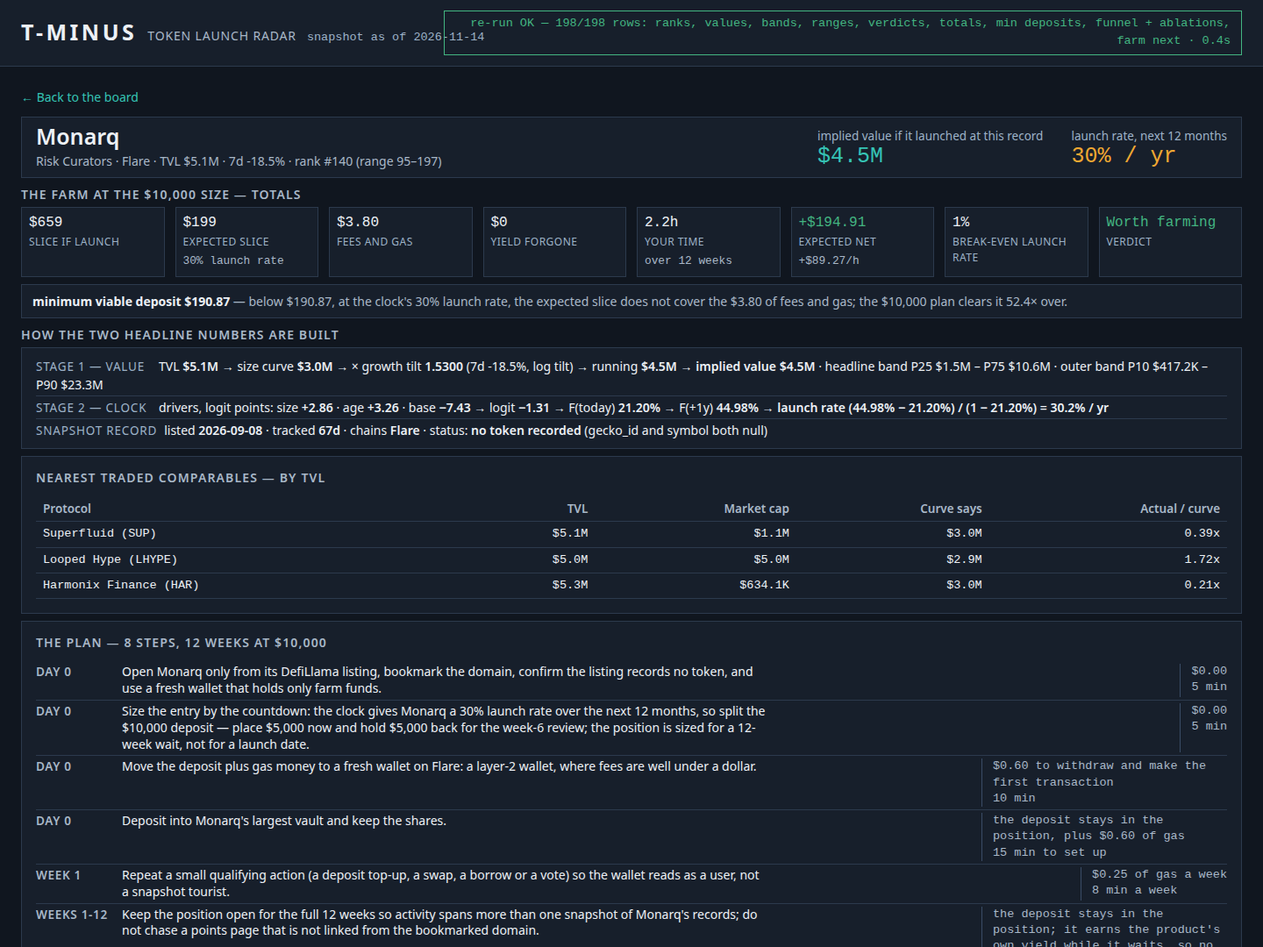
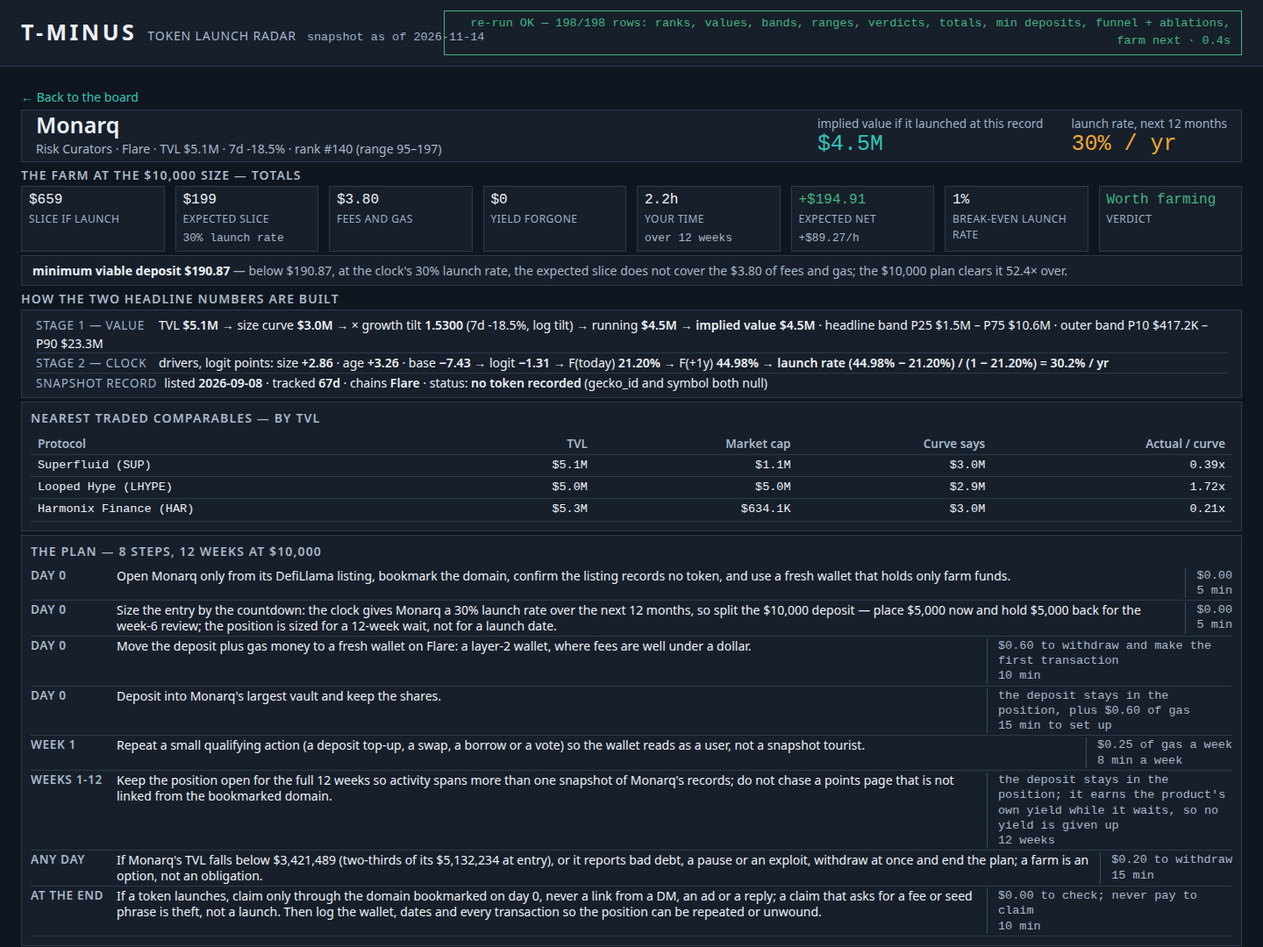
Detail-recovery round: all 8 plan steps back in the detail frame (step 8 ends y1068/1080) via CSS compression only — wider step measure, tighter panels/comparables/build-up — plus the time-split x2.49 second-sourced in the Stage-1 LOO tile and covered by verify(); board.json/data.js md5-locked to 89

Changed region(s): [[0.0, 0.1222, 0.9688, 1.0], [0.9062, 0.4583, 1.0, 0.6722]]

diff --git a/dashboard/app.css b/dashboard/app.css
@@ -1,1 +1,1 @@
-:root{--bg:#10161F;--panel:#171F2B;--panel2:#1E2938;--line:#2C3A4D;--line2:#3A4C66;--ink:#EDF1F6;--ink2:#A9B8C8;--ink3:#9DB2C7;--amber:#F0A832;--teal:#35C4B5;--go:#43B581;--warn:#E8B33D;--skip:#E86A54;--s1:4px;--s2:8px;--s3:12px;--s4:16px;--s5:24px;--s6:32px;--fs-xs:13.5px;--fs-s:14px;--fs-m:16px;--fs-l:20px;--fs-xl:25px;--sans:"Avenir Next","Segoe UI",system-ui,-apple-system,"Helvetica Neue",Arial,sans-serif;--mono:ui-monospace,"SF Mono","Cascadia Mono",Menlo,Consolas,"Liberation Mono",monospace;}*{box-sizing:border-box}html,body{margin:0;padding:0}body{background:var(--bg);color:var(--ink);font-family:var(--sans);font-size:var(--fs-s);line-height:1.5}h1,h2,h3{font-weight:600;line-height:1.2;margin:0}a{color:var(--teal);text-decoration:none}a:hover{text-decoration:underline}button{font-family:inherit;cursor:pointer}.board td:not(.left),.abl td,.stats,table.data td{font-family:var(--mono);font-variant-numeric:tabular-nums}:focus-visible{outline:2px solid var(--teal);outline-offset:1px}.topbar{display:flex;justify-content:space-between;align-items:center;gap:var(--s4);padding:var(--s3) var(--s5);border-bottom:1px solid var(--line);background:var(--panel)}.brand{display:flex;align-items:baseline;gap:var(--s3);min-width:0}.brand-mark{font-size:var(--fs-xl);font-weight:700;letter-spacing:.14em;color:var(--ink);white-space:nowrap}.brand-sub{color:var(--ink2);font-size:var(--fs-s);letter-spacing:.06em;text-transform:uppercase;white-space:nowrap}.asof{color:var(--ink3);font-size:var(--fs-xs);font-family:var(--mono);white-space:nowrap}.top-meta{display:flex;align-items:center;gap:var(--s4);color:var(--ink2);font-size:var(--fs-xs)}.chip{border:1px solid var(--line2);padding:var(--s1) var(--s3);font-family:var(--mono);font-size:var(--fs-xs);text-align:right}.chip-pending{color:var(--warn);border-color:var(--warn)}.chip-ok{color:var(--go);border-color:var(--go)}.chip-bad{color:var(--skip);border-color:var(--skip)}main{padding:var(--s5);max-width:1560px;margin:0 auto}.boot,.fatal{border:1px solid var(--line);background:var(--panel);padding:var(--s6);color:var(--ink2)}.fatal{color:var(--skip);border-color:var(--skip)}.hero{display:grid;grid-template-columns:1fr 1fr;gap:var(--s4);margin-bottom:var(--s4)}.panel{background:var(--panel);border:1px solid var(--line);padding:var(--s4)}.panel h2{font-size:var(--fs-s);text-transform:uppercase;letter-spacing:.08em;color:var(--ink2);margin-bottom:var(--s3)}.panel canvas{width:100%;display:block}.stats{color:var(--ink2);font-size:var(--fs-xs);margin:var(--s3) 0 0}.stats b{color:var(--ink);font-weight:600}.abl{width:100%;border-collapse:collapse;font-size:var(--fs-xs)}.abl td,.abl th{padding:2px var(--s2);border-bottom:1px solid var(--line);text-align:right}.abl td:first-child,.abl th:first-child{text-align:left;font-family:var(--sans)}.evidenceband .abl td:first-child{white-space:nowrap}#ablTable tr.adopted td{color:var(--teal);font-weight:600}#ablTable tr.adopted td:first-child::after{content:" — adopted";color:var(--teal)}#abl2Table tr.adopted td{color:var(--amber);font-weight:600}#abl2Table tr.adopted td:first-child::after{content:" — adopted";color:var(--amber)}.statstrip{display:grid;grid-template-columns:repeat(7,1fr);gap:var(--s3);margin-bottom:var(--s3)}.stat{border:1px solid var(--line);background:var(--panel);padding:var(--s2) var(--s3)}.stat .v{font-family:var(--mono);font-size:var(--fs-l);line-height:1.15;white-space:nowrap}.stat .v.teal{color:var(--teal)}.stat .v.amber{color:var(--amber)}.stat .cap{color:var(--ink3);font-size:12px;text-transform:uppercase;letter-spacing:.04em;margin-top:var(--s1)}.stat .sub{color:var(--ink2);font-size:12.8px;font-family:var(--mono);margin-top:var(--s1);line-height:1.35}.funnelbar{border:1px solid var(--line);background:var(--panel);padding:var(--s2) var(--s3);margin-bottom:var(--s3)}.fb-segs{display:flex;height:16px;border:1px solid var(--line2)}.fb-segs span{display:block;height:100%}.fb-segs .seg-traded{background:var(--ink3)}.fb-segs .seg-aside{background:var(--panel2)}.fb-segs .seg-ranked{background:var(--teal)}.fb-line{margin:var(--s1) 0 0;font-family:var(--mono);font-size:var(--fs-xs);color:var(--ink2);line-height:1.4}.fb-line b{color:var(--ink);font-weight:600}.fb-reasons{color:var(--ink3)}.mindep{border:1px solid var(--line);background:var(--panel);padding:var(--s2) var(--s3);font-size:var(--fs-s);color:var(--ink2);margin-bottom:var(--s2)}.mindep b{color:var(--ink)}.evidenceband{display:grid;grid-template-columns:1.5fr 1fr;gap:var(--s4);margin:var(--s3) 0}.evidenceband .panel{padding:var(--s2) var(--s4)}.evidenceband .panel h2{margin-bottom:var(--s2)}.evidenceband .abl td,.evidenceband .abl th{padding:1px var(--s2);line-height:1.3}.evidenceband .abl th{white-space:nowrap}.evidenceband .stats{margin-top:var(--s2);line-height:1.4}.subh{font-size:var(--fs-xs);text-transform:uppercase;letter-spacing:.06em;color:var(--ink3);margin:var(--s2) 0 var(--s1);font-weight:600}.subh:first-of-type{margin-top:0}.crit{list-style:none;margin:0;padding:0;color:var(--ink2);font-size:var(--fs-xs)}.crit li{padding:2px 0;border-bottom:1px solid var(--line);line-height:1.4}.crit li:last-child{border-bottom:none;padding-bottom:0}.crit b{color:var(--ink);font-weight:600}.compactstrip{border:1px solid var(--line);background:var(--panel);padding:var(--s2) var(--s3);font-family:var(--mono);font-size:var(--fs-xs);color:var(--ink2);margin-bottom:var(--s3)}.compactstrip b{color:var(--ink)}#view-board.filtered .statstrip,#view-board.filtered .evidenceband,#view-board.filtered .funnelbar{display:none}.boardnote{border:1px solid var(--line);background:var(--panel);padding:var(--s2) var(--s3);font-size:var(--fs-xs);color:var(--ink2);margin-bottom:var(--s3);line-height:1.45}.boardnote b{color:var(--ink)}.totals-h{font-size:var(--fs-s);text-transform:uppercase;letter-spacing:.08em;color:var(--ink2);font-weight:600;margin-bottom:var(--s1)}.totals{display:grid;grid-template-columns:repeat(8,1fr);gap:var(--s3);margin-bottom:var(--s2)}.totals .stat{padding:var(--s2)}.totals .v{font-size:var(--fs-m)}.totals .v.go{color:var(--go)}.totals .v.skip{color:var(--skip)}.totals .v.warn{color:var(--warn)}.buildup{border:1px solid var(--line);background:var(--panel);padding:var(--s2) var(--s4);margin-bottom:var(--s2);font-size:var(--fs-s)}.buildup .bu-row{padding:2px 0;border-bottom:1px solid var(--line)}.buildup .bu-row:last-child{border-bottom:none}.buildup .bu-cap{display:inline-block;min-width:132px;margin-right:var(--s2);color:var(--ink3);font-size:var(--fs-xs);text-transform:uppercase;letter-spacing:.06em}.buildup b{color:var(--ink);font-weight:600}.toolbar{display:flex;flex-wrap:wrap;gap:var(--s3);align-items:center;margin-bottom:var(--s3)}.toolbar input[type=search]{background:var(--panel);border:1px solid var(--line);color:var(--ink);padding:var(--s2) var(--s3);font-size:var(--fs-s);min-width:200px}.toolbar select{background:var(--panel);border:1px solid var(--line);color:var(--ink);padding:var(--s2);font-size:var(--fs-s)}.chips{display:flex;gap:var(--s1)}.chips button{background:var(--panel);border:1px solid var(--line);color:var(--ink2);padding:var(--s1) var(--s3);font-size:var(--fs-xs)}.chips button[aria-pressed=true]{color:var(--ink);background:var(--panel2);border-color:var(--line2);font-weight:600}.chips button.v-go[aria-pressed=true]{background:var(--go);border-color:var(--go);color:var(--bg)}.chips button.v-warn[aria-pressed=true]{background:var(--warn);border-color:var(--warn);color:var(--bg)}.chips button.v-skip[aria-pressed=true]{background:var(--skip);border-color:var(--skip);color:var(--bg)}.farmbook{border:1px solid var(--line2);background:var(--panel2);padding:var(--s3) var(--s4);margin-bottom:var(--s3);font-size:var(--fs-s)}#view-board.filtered .tablewrap{max-height:620px;overflow-y:auto}.farmbook b{color:var(--ink)}.farmbook .fb-grid{display:flex;flex-wrap:wrap;gap:var(--s5);font-family:var(--mono);font-size:var(--fs-xs);color:var(--ink2);margin-top:var(--s2)}.farmbook .fb-grid b{display:block;font-size:var(--fs-m);color:var(--ink)}.tablewrap{border:1px solid var(--line);background:var(--panel);overflow-x:auto}table.board{width:100%;border-collapse:collapse;font-size:14.5px}.board th{position:sticky;top:0;background:var(--panel2);color:var(--ink2);text-align:right;font-weight:600;padding:var(--s2);border-bottom:1px solid var(--line2);white-space:nowrap;cursor:pointer}.board th.left,.board td.left{text-align:left}.board td{padding:4px 7px;border-bottom:1px solid var(--line);text-align:right;white-space:nowrap;vertical-align:middle;line-height:1.3}.board tbody tr{cursor:pointer}.board tbody tr:hover{background:var(--panel2)}.board .pname{font-size:var(--fs-s);color:var(--ink);font-weight:600}.board a.pname{text-decoration:none}.board a.pname:hover{color:var(--teal);text-decoration:none}.board .psub{font-family:var(--sans);color:var(--ink3);font-size:var(--fs-xs)}.rank1 td{background:#14201D}.hzbar{display:inline-block;width:44px;height:8px;background:var(--panel2);border:1px solid var(--line);vertical-align:middle;margin-right:var(--s2)}.hzbar i{display:block;height:100%;background:var(--amber)}.bandline{font-family:var(--mono);font-variant-numeric:tabular-nums;white-space:nowrap}.bandbar{display:block;position:relative;width:132px;height:8px;background:var(--panel2);border:1px solid var(--line);margin-top:3px;margin-left:auto}.bandbar .seg{position:absolute;top:1px;height:4px;background:var(--teal)}.bandbar .m{position:absolute;top:0;width:2px;height:6px;background:var(--ink)}.verdict{display:inline-block;border:1px solid;padding:1px var(--s2);font-family:var(--sans);font-size:var(--fs-xs);font-weight:600}.verdict.go{color:var(--go);border-color:var(--go)}.verdict.warn{color:var(--warn);border-color:var(--warn)}.verdict.skip{color:var(--skip);border-color:var(--skip)}.pos{color:var(--go)}.neg{color:var(--skip)}.empty{padding:var(--s6);text-align:center;color:var(--ink2)}.empty button{background:none;border:1px solid var(--line2);color:var(--ink2);padding:var(--s1) var(--s3);margin-left:var(--s2)}.method{margin-top:var(--s4)}.method-grid{display:grid;grid-template-columns:repeat(3,1fr);gap:var(--s5);color:var(--ink2);font-size:var(--fs-s)}.method-grid h3{color:var(--ink);font-size:var(--fs-s);margin-bottom:var(--s2)}.method-grid p{margin:0 0 var(--s2)}.backlink{display:inline-block;margin-bottom:var(--s3);font-size:var(--fs-s)}.d-head{display:flex;flex-wrap:wrap;gap:var(--s5);align-items:flex-end;border:1px solid var(--line);background:var(--panel);padding:var(--s2) var(--s4);margin-bottom:var(--s2)}.d-head h1{font-size:var(--fs-xl);line-height:1.1}.d-head .sub{color:var(--ink2);margin-top:var(--s1)}.d-big{font-family:var(--mono);display:flex;gap:var(--s6);margin-left:auto}.d-big .v{font-size:var(--fs-xl);color:var(--teal);line-height:1.15}.d-big .h{font-size:var(--fs-xl);color:var(--amber);line-height:1.15}.d-big .cap{color:var(--ink3);font-size:var(--fs-xs);font-family:var(--sans)}.d-grid{display:grid;grid-template-columns:1fr 1fr;gap:var(--s4)}.factors{display:flex;align-items:stretch;gap:var(--s2);flex-wrap:wrap}.factor{border:1px solid var(--line);background:var(--panel2);padding:var(--s3);min-width:128px}.factor .cap{color:var(--ink3);font-size:var(--fs-xs);text-transform:uppercase;letter-spacing:.06em}.factor .val{font-family:var(--mono);font-size:var(--fs-l);margin-top:var(--s1)}.factor-arrow{align-self:center;color:var(--ink3);font-size:var(--fs-l)}table.data{width:100%;border-collapse:collapse;font-size:var(--fs-xs)}table.data th,table.data td{padding:var(--s1) var(--s2);border-bottom:1px solid var(--line);text-align:right}table.data th{color:var(--ink2);font-weight:600}table.data td:first-child,table.data th:first-child{text-align:left}.steps{list-style:none;margin:0;padding:0}.plan-panel{margin-bottom:var(--s4)}.plan-panel .steps li{padding:3px 0;line-height:1.35}.steps li{display:grid;grid-template-columns:86px 1fr auto;gap:var(--s3);padding:var(--s3) 0;border-bottom:1px solid var(--line);line-height:1.42}.steps .when{color:var(--ink2);font-weight:600;font-size:var(--fs-xs);text-transform:uppercase;letter-spacing:.05em}.steps .txt{color:var(--ink);max-width:92ch}.steps .ct{font-family:var(--mono);font-size:var(--fs-xs);color:var(--ink2);text-align:left;max-width:280px;border-left:1px solid var(--line2);padding-left:var(--s3)}.clockread{display:flex;gap:var(--s5);flex-wrap:wrap}.clockread .cr .val{font-family:var(--mono);font-size:var(--fs-xl);color:var(--amber)}.clockread .cr .cap{color:var(--ink3);font-size:var(--fs-xs);text-transform:uppercase;letter-spacing:.06em}.listhead{display:flex;justify-content:space-between;align-items:baseline;margin-bottom:var(--s3)}.listhead h1{font-size:var(--fs-xl)}.foot{padding:var(--s4) var(--s5);color:var(--ink3);font-size:var(--fs-xs);border-top:1px solid var(--line);margin-top:var(--s5)}@media (max-width:1100px){.hero{grid-template-columns:1fr}.d-grid{grid-template-columns:1fr}.method-grid{grid-template-columns:1fr}.statstrip{grid-template-columns:repeat(2,1fr)}.totals{grid-template-columns:repeat(4,1fr)}.evidenceband{grid-template-columns:1fr}}
+:root{--bg:#10161F;--panel:#171F2B;--panel2:#1E2938;--line:#2C3A4D;--line2:#3A4C66;--ink:#EDF1F6;--ink2:#A9B8C8;--ink3:#9DB2C7;--amber:#F0A832;--teal:#35C4B5;--go:#43B581;--warn:#E8B33D;--skip:#E86A54;--s1:4px;--s2:8px;--s3:12px;--s4:16px;--s5:24px;--s6:32px;--fs-xs:13.5px;--fs-s:14px;--fs-m:16px;--fs-l:20px;--fs-xl:25px;--sans:"Avenir Next","Segoe UI",system-ui,-apple-system,"Helvetica Neue",Arial,sans-serif;--mono:ui-monospace,"SF Mono","Cascadia Mono",Menlo,Consolas,"Liberation Mono",monospace;}*{box-sizing:border-box}html,body{margin:0;padding:0}body{background:var(--bg);color:var(--ink);font-family:var(--sans);font-size:var(--fs-s);line-height:1.5}h1,h2,h3{font-weight:600;line-height:1.2;margin:0}a{color:var(--teal);text-decoration:none}a:hover{text-decoration:underline}button{font-family:inherit;cursor:pointer}.board td:not(.left),.abl td,.stats,table.data td{font-family:var(--mono);font-variant-numeric:tabular-nums}:focus-visible{outline:2px solid var(--teal);outline-offset:1px}.topbar{display:flex;justify-content:space-between;align-items:center;gap:var(--s4);padding:var(--s3) var(--s5);border-bottom:1px solid var(--line);background:var(--panel)}.brand{display:flex;align-items:baseline;gap:var(--s3);min-width:0}.brand-mark{font-size:var(--fs-xl);font-weight:700;letter-spacing:.14em;color:var(--ink);white-space:nowrap}.brand-sub{color:var(--ink2);font-size:var(--fs-s);letter-spacing:.06em;text-transform:uppercase;white-space:nowrap}.asof{color:var(--ink3);font-size:var(--fs-xs);font-family:var(--mono);white-space:nowrap}.top-meta{display:flex;align-items:center;gap:var(--s4);color:var(--ink2);font-size:var(--fs-xs)}.chip{border:1px solid var(--line2);padding:var(--s1) var(--s3);font-family:var(--mono);font-size:var(--fs-xs);text-align:right}.chip-pending{color:var(--warn);border-color:var(--warn)}.chip-ok{color:var(--go);border-color:var(--go)}.chip-bad{color:var(--skip);border-color:var(--skip)}main{padding:var(--s5);max-width:1560px;margin:0 auto}.boot,.fatal{border:1px solid var(--line);background:var(--panel);padding:var(--s6);color:var(--ink2)}.fatal{color:var(--skip);border-color:var(--skip)}.hero{display:grid;grid-template-columns:1fr 1fr;gap:var(--s4);margin-bottom:var(--s4)}.panel{background:var(--panel);border:1px solid var(--line);padding:10px}.panel h2{font-size:var(--fs-s);text-transform:uppercase;letter-spacing:.08em;color:var(--ink2);margin-bottom:8px}.panel canvas{width:100%;display:block}.stats{color:var(--ink2);font-size:var(--fs-xs);margin:var(--s3) 0 0}.stats b{color:var(--ink);font-weight:600}.abl{width:100%;border-collapse:collapse;font-size:var(--fs-xs)}.abl td,.abl th{padding:2px var(--s2);border-bottom:1px solid var(--line);text-align:right}.abl td:first-child,.abl th:first-child{text-align:left;font-family:var(--sans)}.evidenceband .abl td:first-child{white-space:nowrap}#ablTable tr.adopted td{color:var(--teal);font-weight:600}#ablTable tr.adopted td:first-child::after{content:" — adopted";color:var(--teal)}#abl2Table tr.adopted td{color:var(--amber);font-weight:600}#abl2Table tr.adopted td:first-child::after{content:" — adopted";color:var(--amber)}.statstrip{display:grid;grid-template-columns:repeat(7,1fr);gap:var(--s3);margin-bottom:var(--s3)}.stat{border:1px solid var(--line);background:var(--panel);padding:6px var(--s3)}.stat .v{font-family:var(--mono);font-size:var(--fs-l);line-height:1.15;white-space:nowrap}.stat .v.teal{color:var(--teal)}.stat .v.amber{color:var(--amber)}.stat .cap{color:var(--ink3);font-size:12px;text-transform:uppercase;letter-spacing:.04em;margin-top:var(--s1)}.stat .sub{color:var(--ink2);font-size:12.8px;font-family:var(--mono);margin-top:var(--s1);line-height:1.35}.funnelbar{border:1px solid var(--line);background:var(--panel);padding:var(--s2) var(--s3);margin-bottom:var(--s3)}.fb-segs{display:flex;height:16px;border:1px solid var(--line2)}.fb-segs span{display:block;height:100%}.fb-segs .seg-traded{background:var(--ink3)}.fb-segs .seg-aside{background:var(--panel2)}.fb-segs .seg-ranked{background:var(--teal)}.fb-line{margin:var(--s1) 0 0;font-family:var(--mono);font-size:var(--fs-xs);color:var(--ink2);line-height:1.4}.fb-line b{color:var(--ink);font-weight:600}.fb-reasons{color:var(--ink3)}.mindep{border:1px solid var(--line);background:var(--panel);padding:6px var(--s3);font-size:var(--fs-s);color:var(--ink2);margin-bottom:4px}.mindep b{color:var(--ink)}.evidenceband{display:grid;grid-template-columns:1.5fr 1fr;gap:var(--s4);margin:var(--s3) 0}.evidenceband .panel{padding:var(--s2) var(--s4)}.evidenceband .panel h2{margin-bottom:var(--s2)}.evidenceband .abl td,.evidenceband .abl th{padding:1px var(--s2);line-height:1.3}.evidenceband .abl th{white-space:nowrap}.evidenceband .stats{margin-top:var(--s2);line-height:1.4}.subh{font-size:var(--fs-xs);text-transform:uppercase;letter-spacing:.06em;color:var(--ink3);margin:var(--s2) 0 var(--s1);font-weight:600}.subh:first-of-type{margin-top:0}.crit{list-style:none;margin:0;padding:0;color:var(--ink2);font-size:var(--fs-xs)}.crit li{padding:2px 0;border-bottom:1px solid var(--line);line-height:1.4}.crit li:last-child{border-bottom:none;padding-bottom:0}.crit b{color:var(--ink);font-weight:600}.compactstrip{border:1px solid var(--line);background:var(--panel);padding:var(--s2) var(--s3);font-family:var(--mono);font-size:var(--fs-xs);color:var(--ink2);margin-bottom:var(--s3)}.compactstrip b{color:var(--ink)}#view-board.filtered .statstrip,#view-board.filtered .evidenceband,#view-board.filtered .funnelbar{display:none}.boardnote{border:1px solid var(--line);background:var(--panel);padding:var(--s2) var(--s3);font-size:var(--fs-xs);color:var(--ink2);margin-bottom:var(--s3);line-height:1.45}.boardnote b{color:var(--ink)}.totals-h{font-size:var(--fs-s);text-transform:uppercase;letter-spacing:.08em;color:var(--ink2);font-weight:600;margin-bottom:2px}.totals{display:grid;grid-template-columns:repeat(8,1fr);gap:var(--s3);margin-bottom:4px}.totals .stat{padding:6px var(--s2)}.totals .v{font-size:var(--fs-m)}.totals .v.go{color:var(--go)}.totals .v.skip{color:var(--skip)}.totals .v.warn{color:var(--warn)}.buildup{border:1px solid var(--line);background:var(--panel);padding:6px var(--s4);margin-bottom:4px;font-size:var(--fs-s)}.buildup .bu-row{padding:0;border-bottom:1px solid var(--line)}.buildup .bu-row:last-child{border-bottom:none}.buildup .bu-cap{display:inline-block;min-width:132px;margin-right:var(--s2);color:var(--ink3);font-size:var(--fs-xs);text-transform:uppercase;letter-spacing:.06em}.buildup b{color:var(--ink);font-weight:600}.toolbar{display:flex;flex-wrap:wrap;gap:var(--s3);align-items:center;margin-bottom:var(--s3)}.toolbar input[type=search]{background:var(--panel);border:1px solid var(--line);color:var(--ink);padding:var(--s2) var(--s3);font-size:var(--fs-s);min-width:200px}.toolbar select{background:var(--panel);border:1px solid var(--line);color:var(--ink);padding:var(--s2);font-size:var(--fs-s)}.chips{display:flex;gap:var(--s1)}.chips button{background:var(--panel);border:1px solid var(--line);color:var(--ink2);padding:var(--s1) var(--s3);font-size:var(--fs-xs)}.chips button[aria-pressed=true]{color:var(--ink);background:var(--panel2);border-color:var(--line2);font-weight:600}.chips button.v-go[aria-pressed=true]{background:var(--go);border-color:var(--go);color:var(--bg)}.chips button.v-warn[aria-pressed=true]{background:var(--warn);border-color:var(--warn);color:var(--bg)}.chips button.v-skip[aria-pressed=true]{background:var(--skip);border-color:var(--skip);color:var(--bg)}.farmbook{border:1px solid var(--line2);background:var(--panel2);padding:var(--s3) var(--s4);margin-bottom:var(--s3);font-size:var(--fs-s)}#view-board.filtered .tablewrap{max-height:620px;overflow-y:auto}.farmbook b{color:var(--ink)}.farmbook .fb-grid{display:flex;flex-wrap:wrap;gap:var(--s5);font-family:var(--mono);font-size:var(--fs-xs);color:var(--ink2);margin-top:var(--s2)}.farmbook .fb-grid b{display:block;font-size:var(--fs-m);color:var(--ink)}.tablewrap{border:1px solid var(--line);background:var(--panel);overflow-x:auto}table.board{width:100%;border-collapse:collapse;font-size:14.5px}.board th{position:sticky;top:0;background:var(--panel2);color:var(--ink2);text-align:right;font-weight:600;padding:var(--s2);border-bottom:1px solid var(--line2);white-space:nowrap;cursor:pointer}.board th.left,.board td.left{text-align:left}.board td{padding:4px 7px;border-bottom:1px solid var(--line);text-align:right;white-space:nowrap;vertical-align:middle;line-height:1.3}.board tbody tr{cursor:pointer}.board tbody tr:hover{background:var(--panel2)}.board .pname{font-size:var(--fs-s);color:var(--ink);font-weight:600}.board a.pname{text-decoration:none}.board a.pname:hover{color:var(--teal);text-decoration:none}.board .psub{font-family:var(--sans);color:var(--ink3);font-size:var(--fs-xs)}.rank1 td{background:#14201D}.hzbar{display:inline-block;width:44px;height:8px;background:var(--panel2);border:1px solid var(--line);vertical-align:middle;margin-right:var(--s2)}.hzbar i{display:block;height:100%;background:var(--amber)}.bandline{font-family:var(--mono);font-variant-numeric:tabular-nums;white-space:nowrap}.bandbar{display:block;position:relative;width:132px;height:8px;background:var(--panel2);border:1px solid var(--line);margin-top:3px;margin-left:auto}.bandbar .seg{position:absolute;top:1px;height:4px;background:var(--teal)}.bandbar .m{position:absolute;top:0;width:2px;height:6px;background:var(--ink)}.verdict{display:inline-block;border:1px solid;padding:1px var(--s2);font-family:var(--sans);font-size:var(--fs-xs);font-weight:600}.verdict.go{color:var(--go);border-color:var(--go)}.verdict.warn{color:var(--warn);border-color:var(--warn)}.verdict.skip{color:var(--skip);border-color:var(--skip)}.pos{color:var(--go)}.neg{color:var(--skip)}.empty{padding:var(--s6);text-align:center;color:var(--ink2)}.empty button{background:none;border:1px solid var(--line2);color:var(--ink2);padding:var(--s1) var(--s3);margin-left:var(--s2)}.method{margin-top:var(--s4)}.method-grid{display:grid;grid-template-columns:repeat(3,1fr);gap:var(--s5);color:var(--ink2);font-size:var(--fs-s)}.method-grid h3{color:var(--ink);font-size:var(--fs-s);margin-bottom:var(--s2)}.method-grid p{margin:0 0 var(--s2)}.backlink{display:inline-block;margin-bottom:4px;font-size:var(--fs-s)}.d-head{display:flex;flex-wrap:wrap;gap:var(--s5);align-items:flex-end;border:1px solid var(--line);background:var(--panel);padding:4px var(--s4);margin-bottom:4px}.d-head h1{font-size:var(--fs-xl);line-height:1.0}.d-head .sub{color:var(--ink2);margin-top:var(--s1)}.d-big{font-family:var(--mono);display:flex;gap:var(--s6);margin-left:auto}.d-big .v{font-size:var(--fs-xl);color:var(--teal);line-height:1.15}.d-big .h{font-size:var(--fs-xl);color:var(--amber);line-height:1.15}.d-big .cap{color:var(--ink3);font-size:var(--fs-xs);font-family:var(--sans)}.d-grid{display:grid;grid-template-columns:1fr 1fr;gap:var(--s4)}.factors{display:flex;align-items:stretch;gap:var(--s2);flex-wrap:wrap}.factor{border:1px solid var(--line);background:var(--panel2);padding:var(--s3);min-width:128px}.factor .cap{color:var(--ink3);font-size:var(--fs-xs);text-transform:uppercase;letter-spacing:.06em}.factor .val{font-family:var(--mono);font-size:var(--fs-l);margin-top:var(--s1)}.factor-arrow{align-self:center;color:var(--ink3);font-size:var(--fs-l)}table.data{width:100%;border-collapse:collapse;font-size:var(--fs-xs)}table.data th,table.data td{padding:2px var(--s2);border-bottom:1px solid var(--line);text-align:right}table.data th{color:var(--ink2);font-weight:600}table.data td:first-child,table.data th:first-child{text-align:left}.steps{list-style:none;margin:0;padding:0}.plan-panel{margin-bottom:var(--s4)}.plan-panel .steps li{padding:2px 0;line-height:1.28}.steps li{display:grid;grid-template-columns:86px 1fr auto;gap:var(--s3);padding:var(--s3) 0;border-bottom:1px solid var(--line);line-height:1.42}.steps .when{color:var(--ink2);font-weight:600;font-size:var(--fs-xs);text-transform:uppercase;letter-spacing:.05em}.steps .txt{color:var(--ink)}.steps .ct{font-family:var(--mono);font-size:var(--fs-xs);color:var(--ink2);text-align:left;max-width:280px;border-left:1px solid var(--line2);padding-left:var(--s3)}.clockread{display:flex;gap:var(--s5);flex-wrap:wrap}.clockread .cr .val{font-family:var(--mono);font-size:var(--fs-xl);color:var(--amber)}.clockread .cr .cap{color:var(--ink3);font-size:var(--fs-xs);text-transform:uppercase;letter-spacing:.06em}.listhead{display:flex;justify-content:space-between;align-items:baseline;margin-bottom:var(--s3)}.listhead h1{font-size:var(--fs-xl)}.foot{padding:var(--s4) var(--s5);color:var(--ink3);font-size:var(--fs-xs);border-top:1px solid var(--line);margin-top:var(--s5)}@media (max-width:1100px){.hero{grid-template-columns:1fr}.d-grid{grid-template-columns:1fr}.method-grid{grid-template-columns:1fr}.statstrip{grid-template-columns:repeat(2,1fr)}.totals{grid-template-columns:repeat(4,1fr)}.evidenceband{grid-template-columns:1fr}}

diff --git a/dashboard/app.js b/dashboard/app.js
@@ -102,11 +102,12 @@ let EV = null;
 function renderEvidence() {
 const ev = EV, c = T.counts, v = T.validation, ck = T.clock;
 const stat = (val, cap, sub, cls = '') => `<div class="stat"><div class="v ${cls}">${val}</div><div class="cap">${cap}</div><div class="sub">${sub}</div></div>`;
+const ad0=T.validation.ablation.find(a=>a.variant===T.model.kind);
 $('statStrip').innerHTML =
 stat(c.protocols, 'protocols tracked', `${c.traded} trading · ${c.aside} aside · ${c.ranked} ranked`) +
 stat(c.ranked, 'ranked pre-token', `${c.above_floor} above floor · ${c.watchlist} watch`) +
 stat(ev.vc10['Worth farming'], 'worth farming at $10K', `of ${c.ranked} · only ${ev.vc1['Worth farming']} at $1K`, 'teal') +
-stat('×' + v.looMedianMiss.toFixed(2), 'stage-1 LOO miss', `flat ×${v.flatMedianMiss.toFixed(2)} · ${v.comps} comps`, 'teal') +
+stat('×' + v.looMedianMiss.toFixed(2), 'stage-1 LOO miss', `flat ×${v.flatMedianMiss.toFixed(2)} · split ×${ad0.timeSplitMiss.toFixed(2)} · ${v.comps} comps`, 'teal') +
 stat(Math.round(ev.covMid * 100) + '% · ' + Math.round(ev.covWide * 100) + '%', 'range holds — actual', `nominal 50/80 · outer widened ×${ev.calF.toFixed(2)}`, 'teal') +
 stat(ck.cv_auc.toFixed(3), 'AUC · out-of-sample', `${ck.population} · 10-fold · weak at timing`, 'amber') +
 stat(ck.cv_brier.toFixed(3), 'Brier · out-of-sample', `base ${ck.base_brier.toFixed(3)} · edge thin`, 'amber');
@@ -117,7 +118,6 @@ $('funnelLine').innerHTML = `<b>${c.protocols}</b> in the snapshot → <b>${c.tr
 $('funnelNote').innerHTML = `Set aside: ${Object.entries(reasons).map(([k, n]) => `${esc(k)} <b>${n}</b>`).join(' · ')}.`;
 const w3=[...T.rows].filter(r=>r.econ['10000'].verdict==='Worth farming').sort((a,b)=>b.econ['10000'].expected_net-a.econ['10000'].expected_net).slice(0,3);
 $('farmLine').textContent='Farm next at $10K — '+w3.map(r=>r.name+' +$'+Math.round(r.econ['10000'].expected_net)).join(' · ');
-const ad0=T.validation.ablation.find(a=>a.variant===T.model.kind);
 $('validLine').textContent='Validation — adopted '+ad0.label+' · LOO ×'+v.looMedianMiss.toFixed(2)+' · time-split ×'+ad0.timeSplitMiss.toFixed(2)+' · clock AUC '+ck.cv_auc.toFixed(3);
 $('abl2Table').innerHTML = '<tr><th>Clock form</th><th>CV AUC</th><th>CV Brier</th></tr>' + ev.abl2.map(a => `<tr class="${a.adopted ? 'adopted' : ''}"><td>${esc(a.label)}</td><td>${a.auc.toFixed(3)}</td><td>${a.brier.toFixed(3)}</td></tr>`).join('');
 $('abl2Note').innerHTML = `Same seeded 10 folds, refit here. The chain-count term was dropped this round: AUC ${ev.abl2[1].auc.toFixed(3)} against the adopted ${ck.cv_auc.toFixed(3)}.`;
@@ -168,7 +168,7 @@ if (!bad && JSON.stringify(ev2.gq.map(x => +x.toFixed(6))) !== JSON.stringify(T.
 if (!bad && Math.abs(ev2.calF - T.band_table.calibration) > 1e-9) bad = 'band calibration';
 if (!bad && EV && JSON.stringify(ev2) !== JSON.stringify(EV)) bad = 'evidence render';
 if(!bad&&$('farmLine').textContent!=='Farm next at $10K — '+[...rows].filter(r=>r.econ['10000'].verdict==='Worth farming').sort((a,b)=>b.econ['10000'].expected_net-a.econ['10000'].expected_net).slice(0,3).map(r=>r.name+' +$'+Math.round(r.econ['10000'].expected_net)).join(' · '))bad='farm next';
-if(!bad){const ad9=T.validation.ablation.find(a=>a.variant===kind);if($('validLine').textContent!=='Validation — adopted '+ad9.label+' · LOO ×'+T.validation.looMedianMiss.toFixed(2)+' · time-split ×'+ad9.timeSplitMiss.toFixed(2)+' · clock AUC '+T.clock.cv_auc.toFixed(3))bad='validation line';}
+if(!bad){const ad9=T.validation.ablation.find(a=>a.variant===kind);if($('validLine').textContent!=='Validation — adopted '+ad9.label+' · LOO ×'+T.validation.looMedianMiss.toFixed(2)+' · time-split ×'+ad9.timeSplitMiss.toFixed(2)+' · clock AUC '+T.clock.cv_auc.toFixed(3))bad='validation line';if(!bad&&!$('statStrip').textContent.includes('split ×'+ad9.timeSplitMiss.toFixed(2)))bad='split tile';}
 const secs = ((performance.now() - t0) / 1000).toFixed(1), chip = $('chip');
 if (bad) { chip.textContent = 're-run mismatch — ' + bad; chip.className = 'chip chip-bad'; }
 else { chip.textContent = `re-run OK — ${rows.length}/${rows.length} rows: ranks, values, bands, ranges, verdicts, totals, min deposits, funnel + ablations, farm next · ${secs}s`; chip.className = 'chip chip-ok'; }
@@ -306,7 +306,7 @@ function renderDetail(slug) {
       <div class="bu-row"><span class="bu-cap">Stage 2 — clock</span>drivers, logit points: size <b>${contrib(beta[1] * bx[0])}</b> · age <b>${contrib(beta[2] * bx[1])}</b> · base <b>${contrib(beta[0])}</b> → logit <b>${contrib(bZ)}</b> → F(today) <b>${pct2(bF0)}</b> → F(+1y) <b>${pct2(bF1)}</b> → <b>launch rate (${pct2(bF1)} − ${pct2(bF0)}) / (1 − ${pct2(bF0)}) = ${(bHz * 100).toFixed(1)}% / yr</b></div>
       <div class="bu-row"><span class="bu-cap">Snapshot record</span>listed <b>${esc(r.listed_at ?? 'null')}</b> · tracked <b>${r.age_days === null ? '—' : r.age_days + 'd'}</b> · chains <b>${esc(r.chains.slice(0, 3).join(', ') || 'none listed')}${r.chains.length > 3 ? ` +${r.chains.length - 3} more` : ''}</b> · status: <b>no token recorded</b> (gecko_id and symbol both null)</div>
     </div>
-    <div class="panel" id="compsPanel" style="margin-bottom:8px"><h2>Nearest traded comparables — by TVL</h2><table class="data"><tr><th>Protocol</th><th>TVL</th><th>Market cap</th><th>Curve says</th><th>Actual / curve</th></tr>
+    <div class="panel" id="compsPanel" style="margin-bottom:4px"><h2>Nearest traded comparables — by TVL</h2><table class="data"><tr><th>Protocol</th><th>TVL</th><th>Market cap</th><th>Curve says</th><th>Actual / curve</th></tr>
       ${r.comps_near.map(c => `<tr><td>${esc(c.name)}${c.symbol ? ' (' + esc(c.symbol) + ')' : ''}</td><td>${fmt$(c.tvl_usd)}</td><td>${fmt$(c.mcap_usd)}</td><td>${fmt$(c.curve_value_usd)}</td><td>${c.ratio.toFixed(2)}x</td></tr>`).join('')}</table></div>
     <div class="panel plan-panel"><h2>The plan — ${r.steps.length} steps, ${r.econ['10000'].weeks} weeks at $10,000</h2><ol class="steps">
       ${r.steps.map(s => `<li><span class="when">${esc(s.when)}</span><span class="txt">${esc(s.text)}</span><span class="ct">${esc(s.cost)}<br>${esc(s.time)}</span></li>`).join('')}</ol></div>
